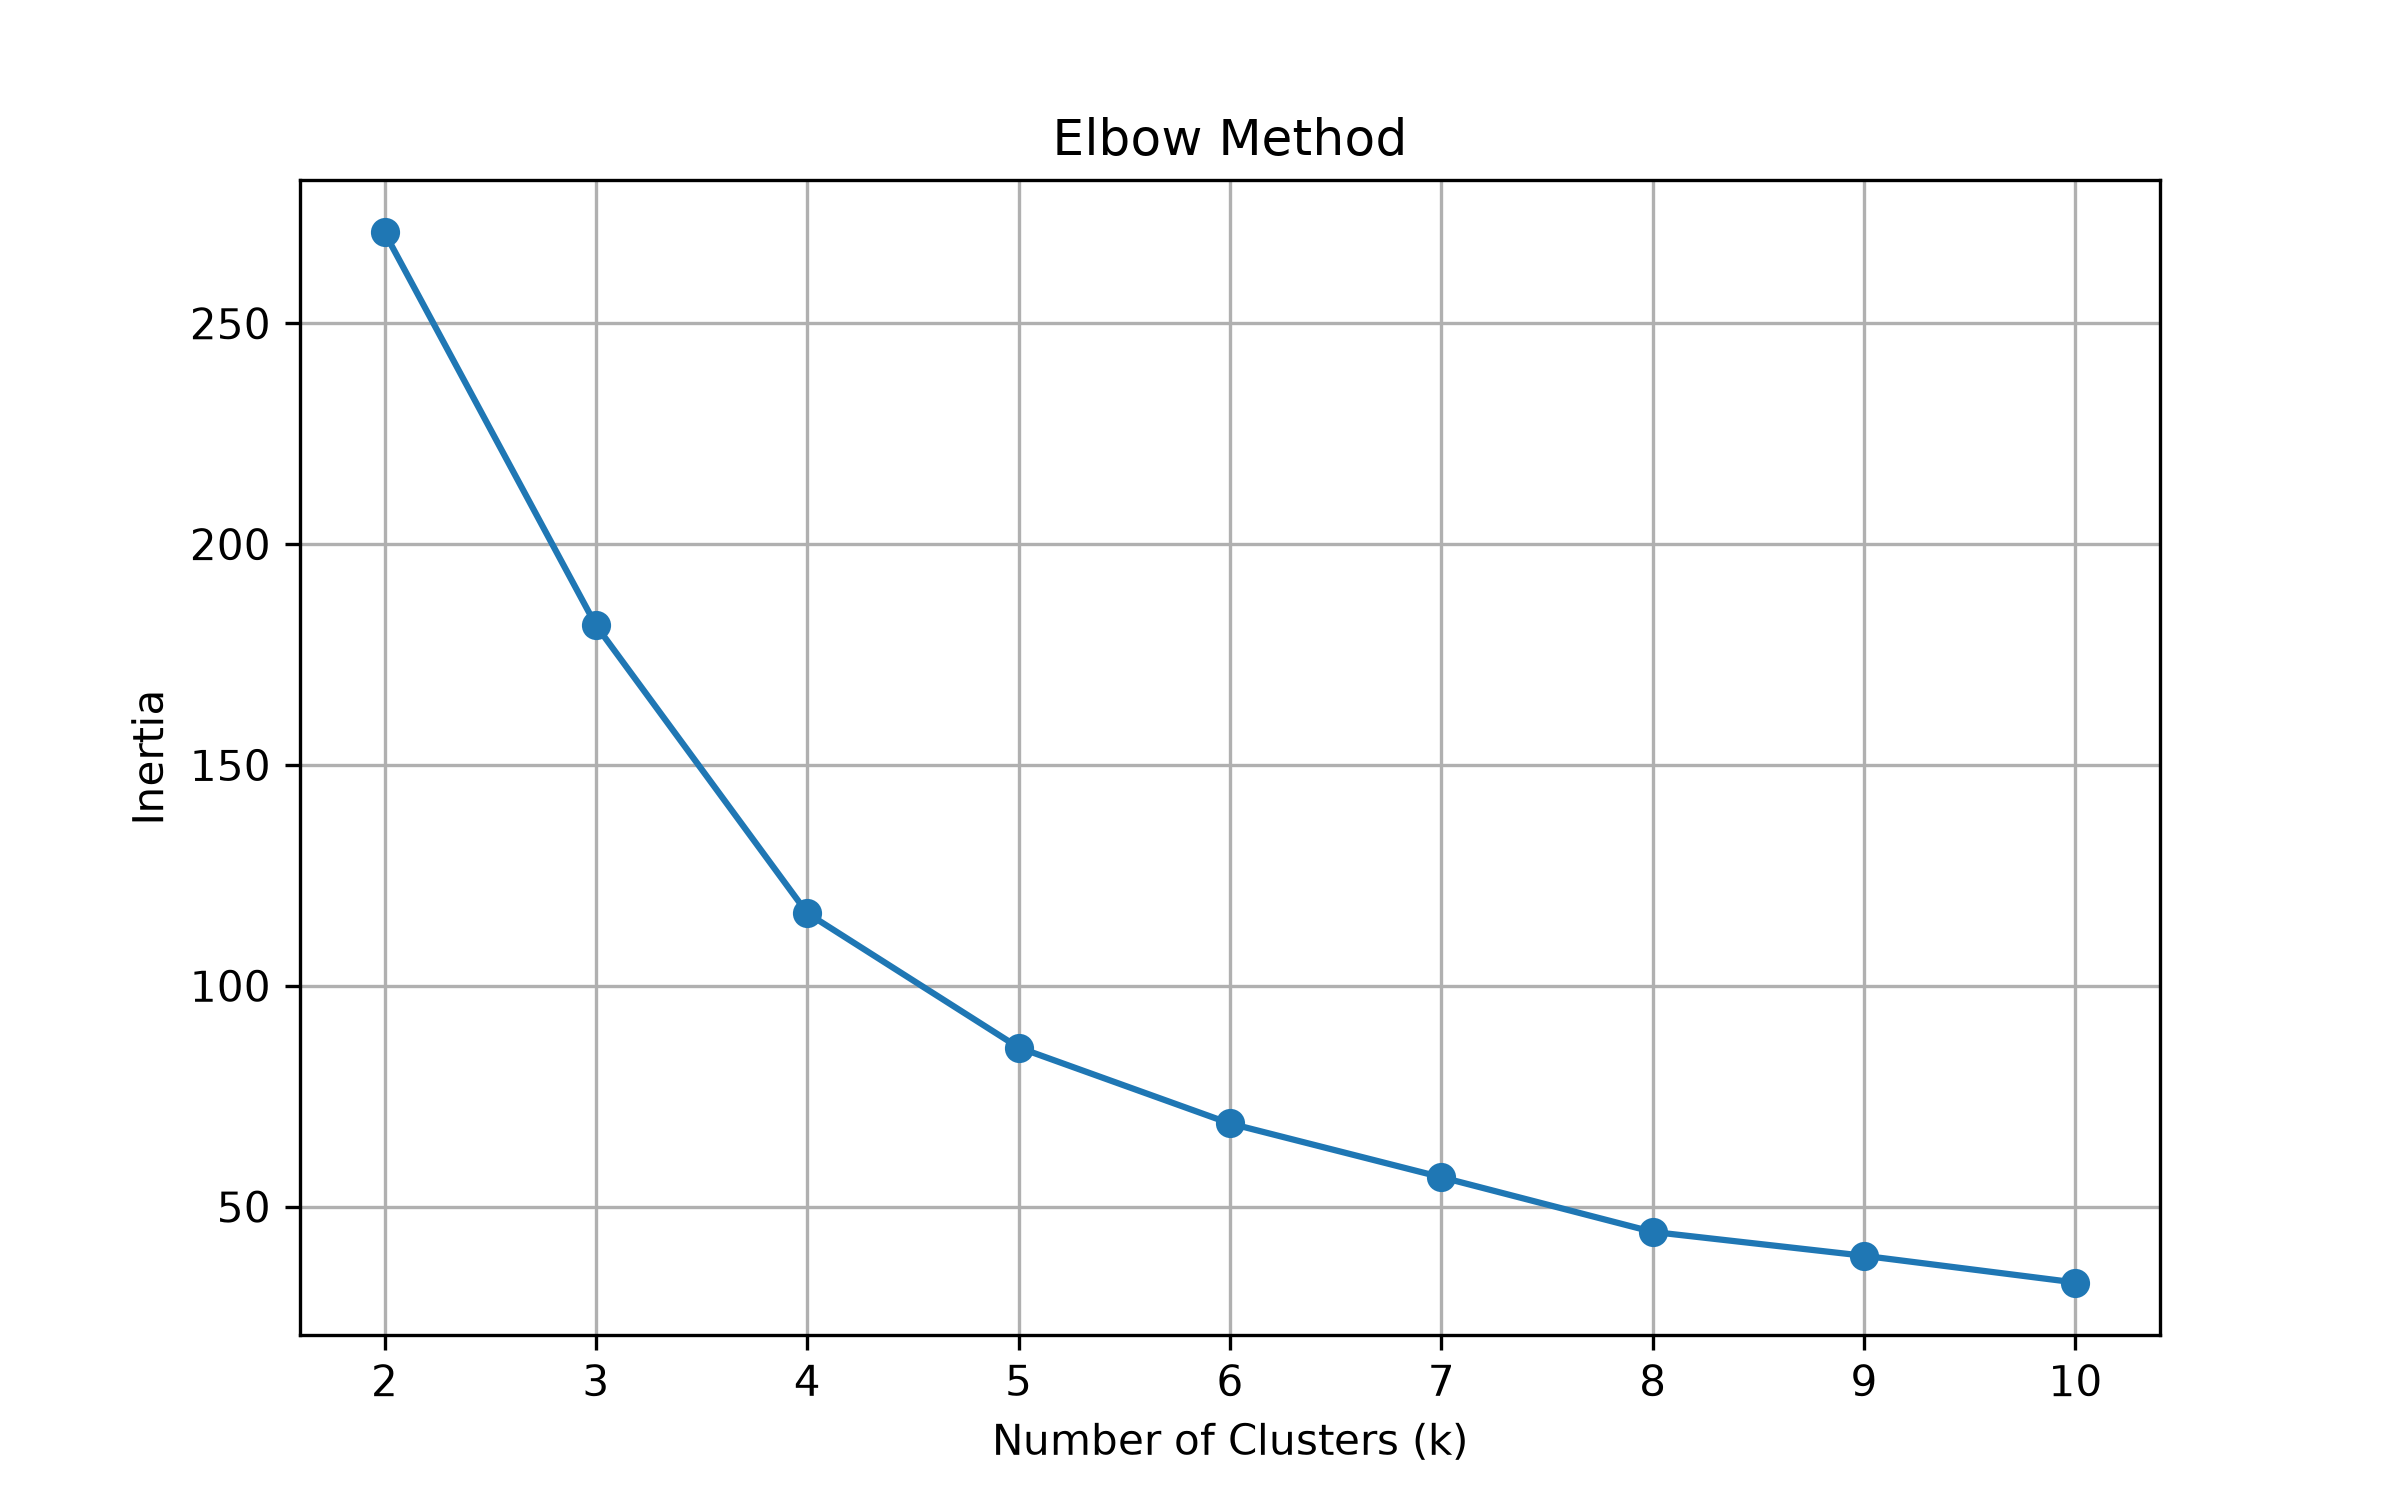
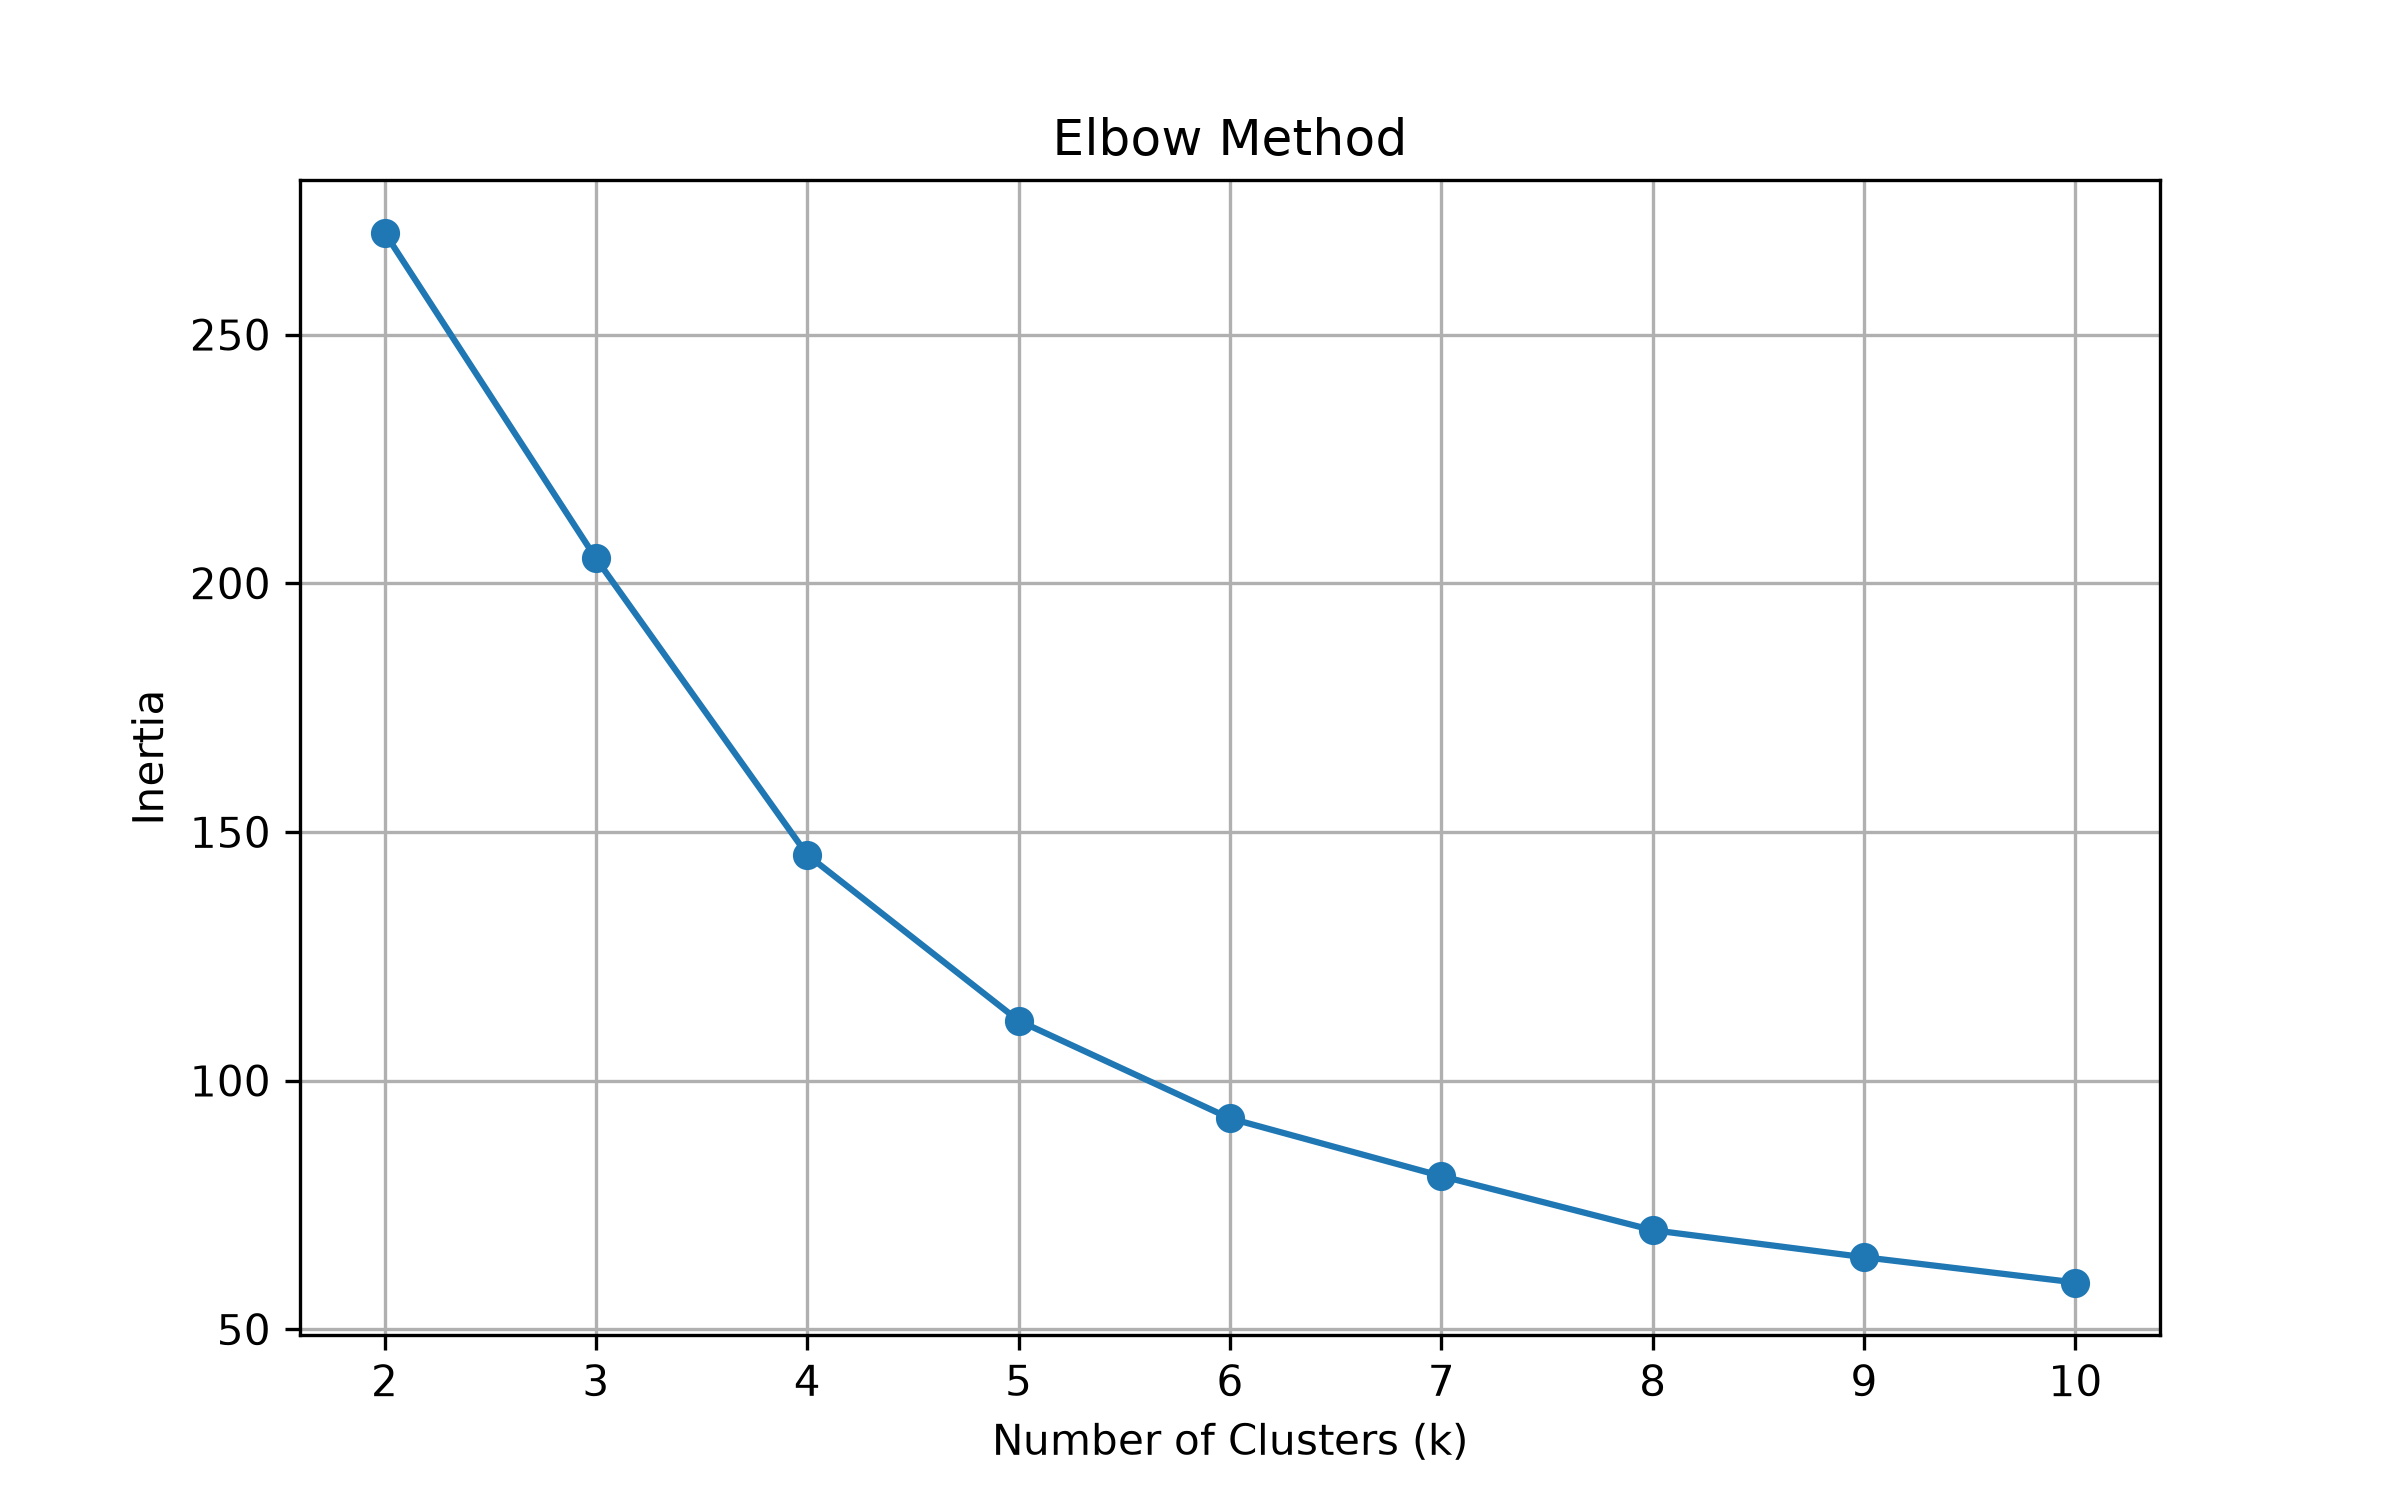
Sprint 6 Day 36 - Company clustering completed

diff --git a/src/analytics/clustering.py b/src/analytics/clustering.py
@@ -1,9 +1,14 @@
-import sqlite3
-import pandas as pd
-import matplotlib.pyplot as plt
 import os
-from sklearn.preprocessing import StandardScaler
+import sqlite3
+
+import matplotlib.pyplot as plt
+import pandas as pd
 from sklearn.cluster import KMeans
+from sklearn.preprocessing import StandardScaler
+
+# ============================================================
+# STEP 1 - Load Data
+# ============================================================
 
 conn = sqlite3.connect("nifty100.db")
 
@@ -23,8 +28,6 @@ ON fr.company_id = sc.company_id
 """
 
 df = pd.read_sql(query, conn)
-
-# Close database connection
 conn.close()
 
 print("=" * 60)
@@ -38,6 +41,10 @@ print(df.columns.tolist())
 print("\nShape:")
 print(df.shape)
 
+# ============================================================
+# STEP 2 - Latest Record Per Company
+# ============================================================
+
 df_latest = (
     df.sort_values("year")
       .groupby("company_id", as_index=False)
@@ -47,7 +54,6 @@ df_latest = (
 print("\n" + "=" * 60)
 print("Latest Company Records")
 print("=" * 60)
-
 print(df_latest.head())
 
 print("\nLatest Dataset Shape:")
@@ -58,6 +64,10 @@ print(df_latest["company_id"].nunique())
 
 print("\nMissing Values:")
 print(df_latest.isnull().sum())
+
+# ============================================================
+# STEP 3 - Select Features
+# ============================================================
 
 features = [
     "return_on_equity_pct",
@@ -70,29 +80,46 @@ features = [
 print("\nSelected Features:")
 print(df_latest[features].head())
 
+# ============================================================
+# STEP 4 - Handle Missing Values
+# ============================================================
+
 print("\n" + "=" * 60)
 print("Handling Missing Values")
 print("=" * 60)
 
-# Fill missing sector with "Unknown"
 df_latest["broad_sector"] = df_latest["broad_sector"].fillna("Unknown")
 
-# Impute numeric columns using sector median
 for col in features:
-    df_latest[col] = df_latest.groupby("broad_sector")[col].transform(
-        lambda x: x.fillna(x.median())
+    df_latest[col] = (
+        df_latest.groupby("broad_sector")[col]
+        .transform(lambda x: x.fillna(x.median()))
     )
 
-# Final fallback if an entire sector is missing values
 for col in features:
     df_latest[col] = df_latest[col].fillna(df_latest[col].median())
 
 print("\nMissing values after imputation:")
 print(df_latest[features + ["broad_sector"]].isnull().sum())
 
-# ========================================
-# STEP 3 - Feature Scaling
-# ========================================
+# ============================================================
+# STEP 5 - Handle Extreme Outliers
+# ============================================================
+
+print("\n" + "=" * 60)
+print("Handling Extreme ROE Values")
+print("=" * 60)
+
+df_latest["return_on_equity_pct"] = (
+    df_latest["return_on_equity_pct"].clip(-100, 100)
+)
+
+print("Maximum ROE after clipping:",
+      df_latest["return_on_equity_pct"].max())
+
+# ============================================================
+# STEP 6 - Feature Scaling
+# ============================================================
 
 print("\n" + "=" * 60)
 print("Scaling Features")
@@ -102,12 +129,12 @@ scaler = StandardScaler()
 
 X_scaled = scaler.fit_transform(df_latest[features])
 
-print("Scaled Dataset Shape:", X_scaled.shape)
-
 scaled_df = pd.DataFrame(
     X_scaled,
     columns=features
 )
+
+print("Scaled Dataset Shape:", X_scaled.shape)
 
 print("\nScaled Feature Means:")
 print(scaled_df.mean())
@@ -115,9 +142,9 @@ print(scaled_df.mean())
 print("\nScaled Feature Standard Deviations:")
 print(scaled_df.std())
 
-# ========================================
-# STEP 4 - KMeans Clustering
-# ========================================
+# ============================================================
+# STEP 7 - KMeans Clustering
+# ============================================================
 
 print("\n" + "=" * 60)
 print("Running KMeans")
@@ -136,9 +163,9 @@ print(df_latest[["company_id", "cluster_id"]].head())
 print("\nCluster Counts:")
 print(df_latest["cluster_id"].value_counts().sort_index())
 
-# ========================================
-# STEP 5 - Elbow Plot
-# ========================================
+# ============================================================
+# STEP 8 - Elbow Plot
+# ============================================================
 
 print("\n" + "=" * 60)
 print("Generating Elbow Plot")
@@ -157,8 +184,8 @@ for k in range(2, 11):
 
 os.makedirs("reports", exist_ok=True)
 
-plt.figure(figsize=(8,5))
-plt.plot(range(2,11), inertia, marker="o")
+plt.figure(figsize=(8, 5))
+plt.plot(range(2, 11), inertia, marker="o")
 plt.xlabel("Number of Clusters (k)")
 plt.ylabel("Inertia")
 plt.title("Elbow Method")
@@ -168,9 +195,10 @@ plt.savefig("reports/elbow_plot.png", dpi=300)
 plt.close()
 
 print("Saved: reports/elbow_plot.png")
-# ========================================
-# STEP 6 - Distance From Centroid
-# ========================================
+
+# ============================================================
+# STEP 9 - Distance from Centroid
+# ============================================================
 
 print("\n" + "=" * 60)
 print("Calculating Distances")
@@ -183,9 +211,15 @@ df_latest["distance_from_centroid"] = [
     for i, cluster in enumerate(df_latest["cluster_id"])
 ]
 
-print(df_latest[
-    ["company_id", "cluster_id", "distance_from_centroid"]
-].head())
+print(
+    df_latest[
+        ["company_id", "cluster_id", "distance_from_centroid"]
+    ].head()
+)
+
+# ============================================================
+# STEP 10 - Cluster Names
+# ============================================================
 
 cluster_names = {
     0: "Stable Performers",
@@ -195,21 +229,13 @@ cluster_names = {
     4: "Cash Burners"
 }
 
-df_latest["cluster_name"] = df_latest["cluster_id"].map(cluster_names)
+df_latest["cluster_name"] = (
+    df_latest["cluster_id"].map(cluster_names)
+)
 
-# ========================================
-# STEP 8 - Export Cluster Labels
-# ========================================
-
-os.makedirs("output", exist_ok=True)
-output = df_latest[
-    [
-        "company_id",
-        "cluster_id",
-        "cluster_name",
-        "distance_from_centroid"
-    ]
-]
+# ============================================================
+# STEP 11 - Cluster Centroids
+# ============================================================
 
 centroids = pd.DataFrame(
     scaler.inverse_transform(kmeans.cluster_centers_),
@@ -219,36 +245,31 @@ centroids = pd.DataFrame(
 print("\nCluster Centroids:")
 print(centroids)
 
+# ============================================================
+# STEP 12 - Export Results
+# ============================================================
+
+os.makedirs("output", exist_ok=True)
+
+output = df_latest[
+    [
+        "company_id",
+        "cluster_id",
+        "cluster_name",
+        "distance_from_centroid"
+    ]
+]
+
 output.to_csv(
     "output/cluster_labels.csv",
     index=False
 )
 
 print("\nSaved: output/cluster_labels.csv")
-print(df_latest.nlargest(10, "return_on_equity_pct")[
-    ["company_id", "return_on_equity_pct"]
-])
 
-# ========================================
-# Clip Extreme ROE Values
-# ========================================
-
-df_latest["return_on_equity_pct"] = df_latest["return_on_equity_pct"].clip(-100, 100)
-
-print("Maximum ROE:", df_latest["return_on_equity_pct"].max())
-# Handle missing values
-...
-
-# Clip ROE
-df_latest["return_on_equity_pct"] = (
-    df_latest["return_on_equity_pct"].clip(-100, 100)
+print("\nTop 10 ROE Values After Clipping:")
+print(
+    df_latest.nlargest(10, "return_on_equity_pct")[
+        ["company_id", "return_on_equity_pct"]
+    ]
 )
-
-print("Maximum ROE:", df_latest["return_on_equity_pct"].max())
-
-# Scale features
-scaler = StandardScaler()
-X_scaled = scaler.fit_transform(df_latest[features])
-
-# Run KMeans
-kmeans = KMeans(...)